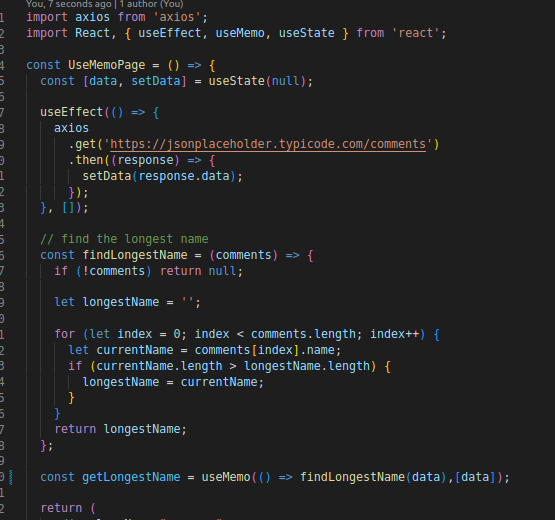
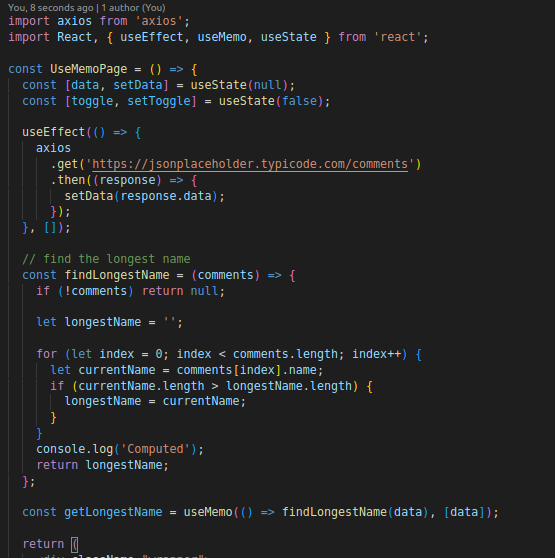
cleaned up useMemo hook page documentation

Changed region(s): [[0.0, 0.0, 0.9189, 1.0], [0.3063, 0.9846, 0.3676, 1.0], [0.245, 0.9846, 0.2757, 1.0]]

diff --git a/src/pages/UseMemoPage.jsx b/src/pages/UseMemoPage.jsx
@@ -25,7 +25,7 @@ const UseMemoPage = () => {
         longestName = currentName;
       }
     }
-    console.log("Computed");
+    console.log('Computed');
     return longestName;
   };
 
@@ -41,47 +41,62 @@ const UseMemoPage = () => {
           memoization as caching a value so that it does not need to be
           recalculated. The
           <mark>useMemo</mark> Hook only runs when one of its dependencies
-          update. </li>
-          <div className="container-fluid p-sm-3  bg-body-tertiary">
-            <li>
-              Consider the following example:
-              <br />
-              <br />
-            </li>
-            <li>
-              Consider an example below that fetches API data of blog comments
-              filtered to fetch the longest name among users
-            </li>
-            <div className="d-lg-flex flex-lg-row align-items-center mb-5 mt-5">
-              <img
-                src="images/usememo1.png"
-                width={500}
-                className="img-fluid"
-                alt="code1"
-              />
-              <img
-                src="images/usememo2.png"
-                width={500}
-                className="img-fluid"
-                alt="code1"
-              />
-            </div>
-            <li>
-              In the above code snippets, <code>UseMemo</code> hook is used to
-              compute <code>findLongestName</code> function once.
-            </li>
+          update.{' '}
+        </li>
+        <div className="container-fluid p-sm-3  bg-body-tertiary">
+          <li>
+            Consider the following example:
+            <br />
+            <br />
+          </li>
+          <div className="d-lg-flex flex-lg-row align-items-center mb-5 mt-5">
+            <img
+              src="images/usememo1.png"
+              width={500}
+              className="img-fluid"
+              alt="code1"
+            />
+            <img
+              src="images/usememo2.png"
+              width={500}
+              className="img-fluid"
+              alt="code1"
+            />
           </div>
-       
+          <li>
+            In the above code snippets, <code>UseMemo</code> hook is used to
+            compute <code>findLongestName</code> function once. The function{' '}
+            <code>findLongestName</code> is used to calculate the longest name
+            from the list of filtered names from API fetched
+          </li>
+          <li>
+            Once data is fetched by <code>UseEffect</code> hook, useMemo is
+            toggled without re-rendering, through memoization.
+            <br />
+            This is demonstrated by button below: Upon page load console logs
+            text <mark>computed</mark>
+            which is loaded from function <code>findLongestName</code>. After
+            page load, the <code>UseMemo</code> memoirs the function every time{' '}
+            <kbd>Toggle</kbd> button is clicked, hence it does not print the
+            alert on console.
+          </li>
+        </div>
       </div>
       <div className="align-items-center d-lg-flex alert alert-primary">
         <strong>Longest Name:</strong> {getLongestName}
         <div className="container p-2">
           {' '}
-          <button onClick={()=>setToggle(!toggle)} className="btn btn-success">Toggle</button>
+          <button
+            onClick={() => setToggle(!toggle)}
+            className="btn btn-success"
+          >
+            Toggle
+          </button>
         </div>
-       
-      </div> 
-      <div>{toggle && <p className='alert alert-info'>This is a toggled alert</p>}</div>
+      </div>
+      <div>
+        {toggle && <p className="alert alert-info">This is a toggled alert</p>}
+      </div>
     </div>
   );
 };
